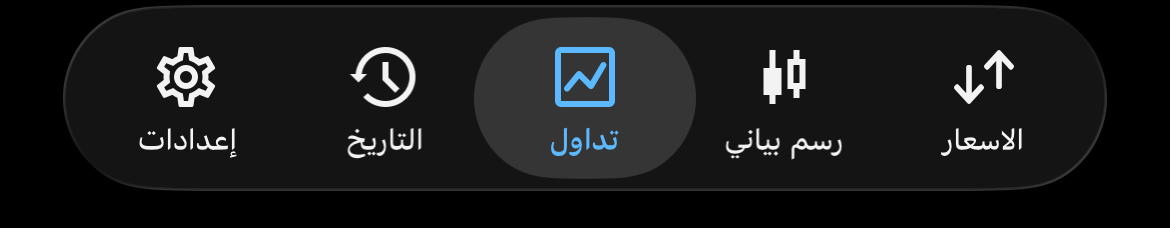
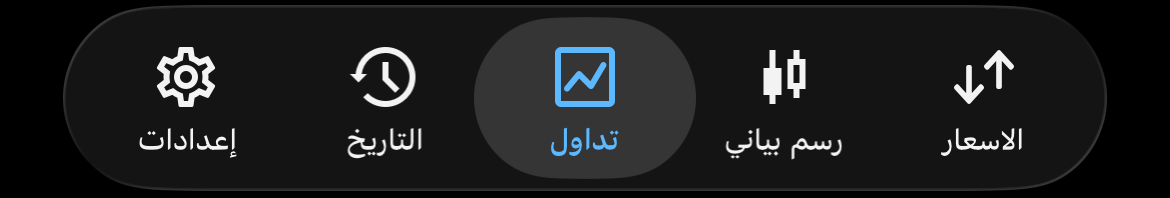
Add files via upload

diff --git a/app.js b/app.js
@@ -119,7 +119,8 @@ const State = {
     timeMaxOffset: parseFloat(localStorage.getItem('mt5_time_max_offset')) || 44,
     timeRightMargin: parseFloat(localStorage.getItem('mt5_time_right_margin')) || 11,
     threeDotsX: parseFloat(localStorage.getItem('mt5_three_dots_x')) || 34,
-    threeDotsY: parseFloat(localStorage.getItem('mt5_three_dots_y')) || 630,
+    threeDotsY: parseFloat(localStorage.getItem('mt5_three_dots_y')) || 664,
+    chartBoxHeight: parseFloat(localStorage.getItem('mt5_chart_box_height')) || 650,
     
     fontLabels: localStorage.getItem('mt5_font_labels') || '"SF Pro Display", -apple-system, sans-serif',
     fontPrices: localStorage.getItem('mt5_font_prices') || '"SF Pro Text", -apple-system, sans-serif',
@@ -353,11 +354,16 @@ function getActiveCandles() {
 function resizeCanvas() {
     const rect = canvas.getBoundingClientRect();
     State.width = rect.width;
-    State.height = rect.height;
     
-    // Scale canvas to match high DPI displays
+    // Explicit candlestick box height (default 650px, customizable from Settings)
+    const boxHeight = State.chartBoxHeight || 650;
+    const totalCanvasHeight = boxHeight + MARGIN_BOTTOM + MARGIN_TOP;
+    State.height = totalCanvasHeight;
+    
+    // Set canvas element styles and backing store dimensions
+    canvas.style.height = totalCanvasHeight + 'px';
     canvas.width = rect.width * State.devicePixelRatio;
-    canvas.height = rect.height * State.devicePixelRatio;
+    canvas.height = totalCanvasHeight * State.devicePixelRatio;
     
     ctx.scale(State.devicePixelRatio, State.devicePixelRatio);
     drawChart();
@@ -3474,7 +3480,8 @@ const advancedSettings = {
     'setting-trade-font-size-account': { key: 'tradeFontSizeAccount', type: 'float', storage: 'mt5_trade_font_size_account' },
     'setting-trade-font-size-symbol': { key: 'tradeFontSizeSymbol', type: 'float', storage: 'mt5_trade_font_size_symbol' },
     'setting-trade-font-size-prices': { key: 'tradeFontSizePrices', type: 'float', storage: 'mt5_trade_font_size_prices' },
-    // Sticker Vertical Positions
+    // Chart Box & Sticker Positions
+    'setting-chart-box-height': { key: 'chartBoxHeight', type: 'float', storage: 'mt5_chart_box_height' },
     'setting-top-sticker-offset-y': { key: 'topStickerOffsetY', type: 'float', storage: 'mt5_top_sticker_offset_y' },
     'setting-bottom-sticker-offset-y': { key: 'bottomStickerOffsetY', type: 'float', storage: 'mt5_bottom_sticker_offset_y' }
 };
@@ -3482,6 +3489,7 @@ const advancedSettings = {
 function applyStickerOffsetSettings() {
     const root = document.documentElement;
     if (!root) return;
+    root.style.setProperty('--chart-box-height', `${State.chartBoxHeight || 650}px`);
     root.style.setProperty('--top-sticker-offset-y', `${State.topStickerOffsetY || 0}px`);
     root.style.setProperty('--bottom-sticker-offset-y', `${State.bottomStickerOffsetY || 0}px`);
 }
@@ -3526,7 +3534,11 @@ function initAdvancedSettings() {
             applySubtitleColor();
             applyTradeFontSettings();
             applyStickerOffsetSettings();
-            drawChart();
+            if (config.key === 'chartBoxHeight') {
+                resizeCanvas();
+            } else {
+                drawChart();
+            }
         });
     });
     applySubtitleColor();

diff --git a/index.html b/index.html
@@ -18,7 +18,7 @@
     <link rel="preconnect" href="https://fonts.gstatic.com" crossorigin>
     <link href="https://fonts.googleapis.com/css2?family=Inter:wght@400;500;700&family=Lato:wght@400;700&family=Montserrat:wght@400;500;700&family=Open+Sans:wght@400;600&family=Outfit:wght@400;500;700&family=Poppins:wght@400;500;600&family=Roboto:wght@400;500&display=swap" rel="stylesheet">
     
-    <link rel="stylesheet" href="styles.css?v=94">
+    <link rel="stylesheet" href="styles.css?v=96">
 </head>
 <body>
     <!-- Global error catcher to display any mobile browser javascript crash on screen -->
@@ -577,13 +577,17 @@
                         </div>
 
                         <div class="settings-group">
-                            <div class="settings-title">إزاحة وموقع الملصقات العلوية والسفلية (Stickers Position)</div>
+                            <div class="settings-title">أبعاد الشارت وموقع الملصقات (Chart Dimensions & Stickers Position)</div>
+                            <div class="settings-item">
+                                <span>طول/ارتفاع مربع الشارت والشموع (px)</span>
+                                <input type="number" id="setting-chart-box-height" value="650" step="5" style="width: 65px; text-align: center;">
+                            </div>
                             <div class="settings-item">
                                 <span>إزاحة الشريط/الملصق العلوي (موجب لإنزاله / سالب لرفعه px)</span>
                                 <input type="number" id="setting-top-sticker-offset-y" value="0" step="1" style="width: 65px; text-align: center;">
                             </div>
                             <div class="settings-item">
-                                <span>إزاحة الشريط/الملصق السفلي (سالب لرفعه / موجب لإنزاله px)</span>
+                                <span>إزاحة الشريط/الملصق السفلي (موجب لإنزاله / سالب لرفعه px)</span>
                                 <input type="number" id="setting-bottom-sticker-offset-y" value="0" step="1" style="width: 65px; text-align: center;">
                             </div>
                         </div>
@@ -962,6 +966,6 @@
         </div>
     </div>
 
-    <script src="app.js?v=94"></script>
+    <script src="app.js?v=96"></script>
 </body>
 </html>

diff --git a/styles.css b/styles.css
@@ -20,7 +20,8 @@
     --input-bg: #ffffff;
     --toolbar-filter: none;
     --top-sticker-offset-y: 0px;
-    --bottom-sticker-offset-y: 18.5px;
+    --bottom-sticker-offset-y: 0px;
+    --chart-box-height: 650px;
 }
 
 /* Dark theme overrides */
@@ -353,12 +354,23 @@ button, input, select, textarea {
     transition: background 0.3s ease, color 0.3s ease, border-color 0.3s ease;
 }
 
+#page-chart {
+    background: #000000 !important;
+    display: flex;
+    flex-direction: column;
+    height: 100%;
+    overflow: hidden;
+}
+
 /* Chart Container & Elements */
 .chart-container {
-    flex: 1;
+    height: calc(var(--chart-box-height, 650px) + 24px);
+    min-height: calc(var(--chart-box-height, 650px) + 24px);
+    width: 100%;
     position: relative;
     overflow: hidden;
     background: #000000;
+    flex-shrink: 0;
 }
 
 #main-chart-canvas {
@@ -712,9 +724,9 @@ button, input, select, textarea {
     border-top: none !important;
     flex-shrink: 0;
     z-index: 50;
-    margin-bottom: 18.5px !important;
+    margin-top: auto;
+    margin-bottom: calc(18.5px - var(--bottom-sticker-offset-y, 0px)) !important;
     padding: 0;
-    transform: translateY(var(--bottom-sticker-offset-y, 0px));
 }
 
 body.trade-tab-active .status-bar-spacer {

diff --git a/sw.js b/sw.js
@@ -1,4 +1,4 @@
-const CACHE_NAME = 'mt5-simulator-v94';
+const CACHE_NAME = 'mt5-simulator-v96';
 const ASSETS = [
   './',
   './index.html',
